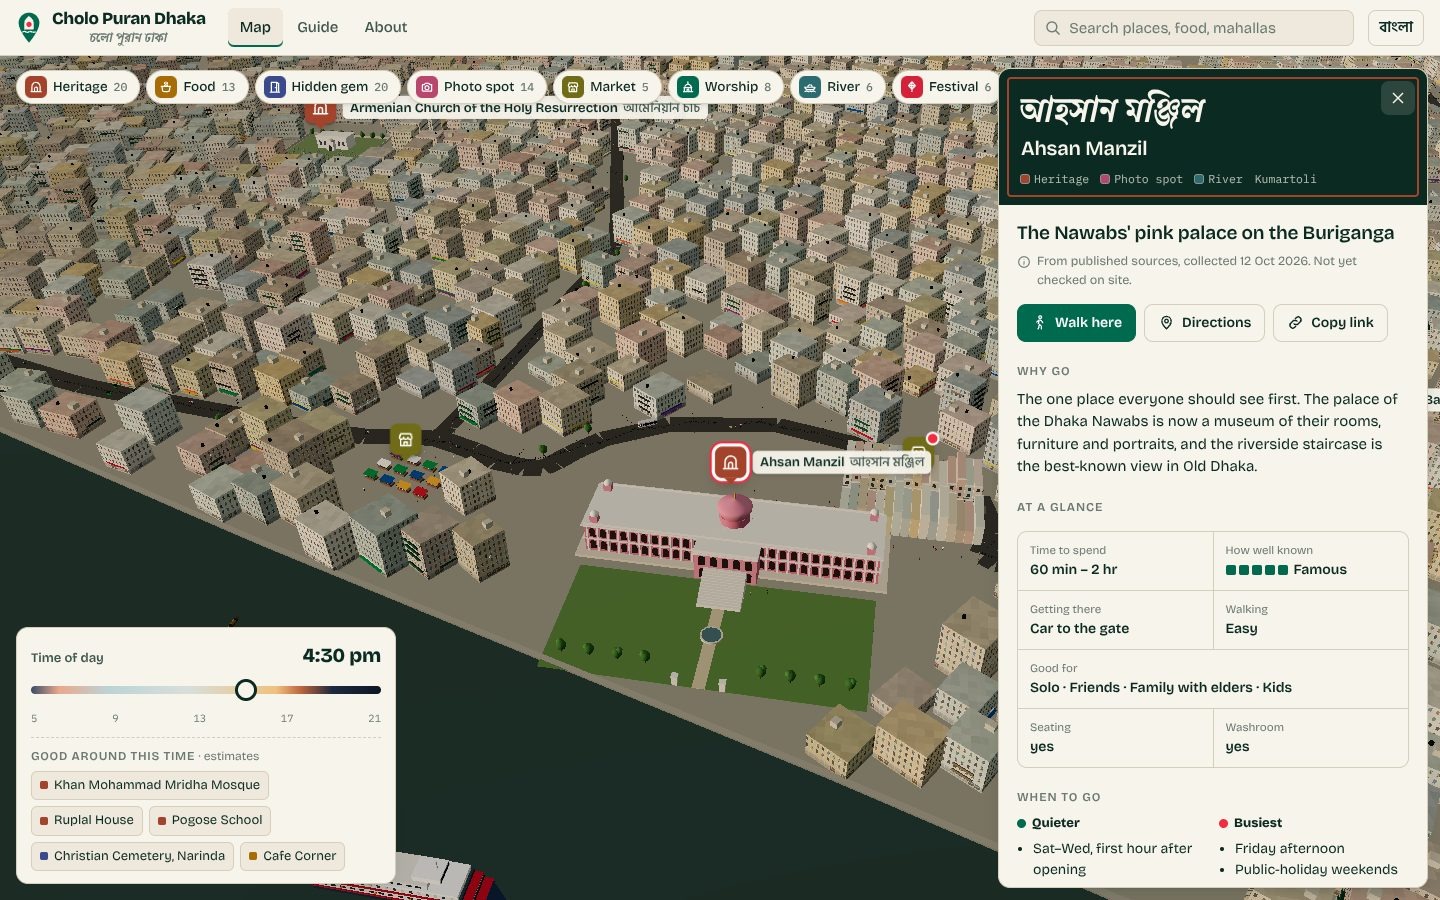
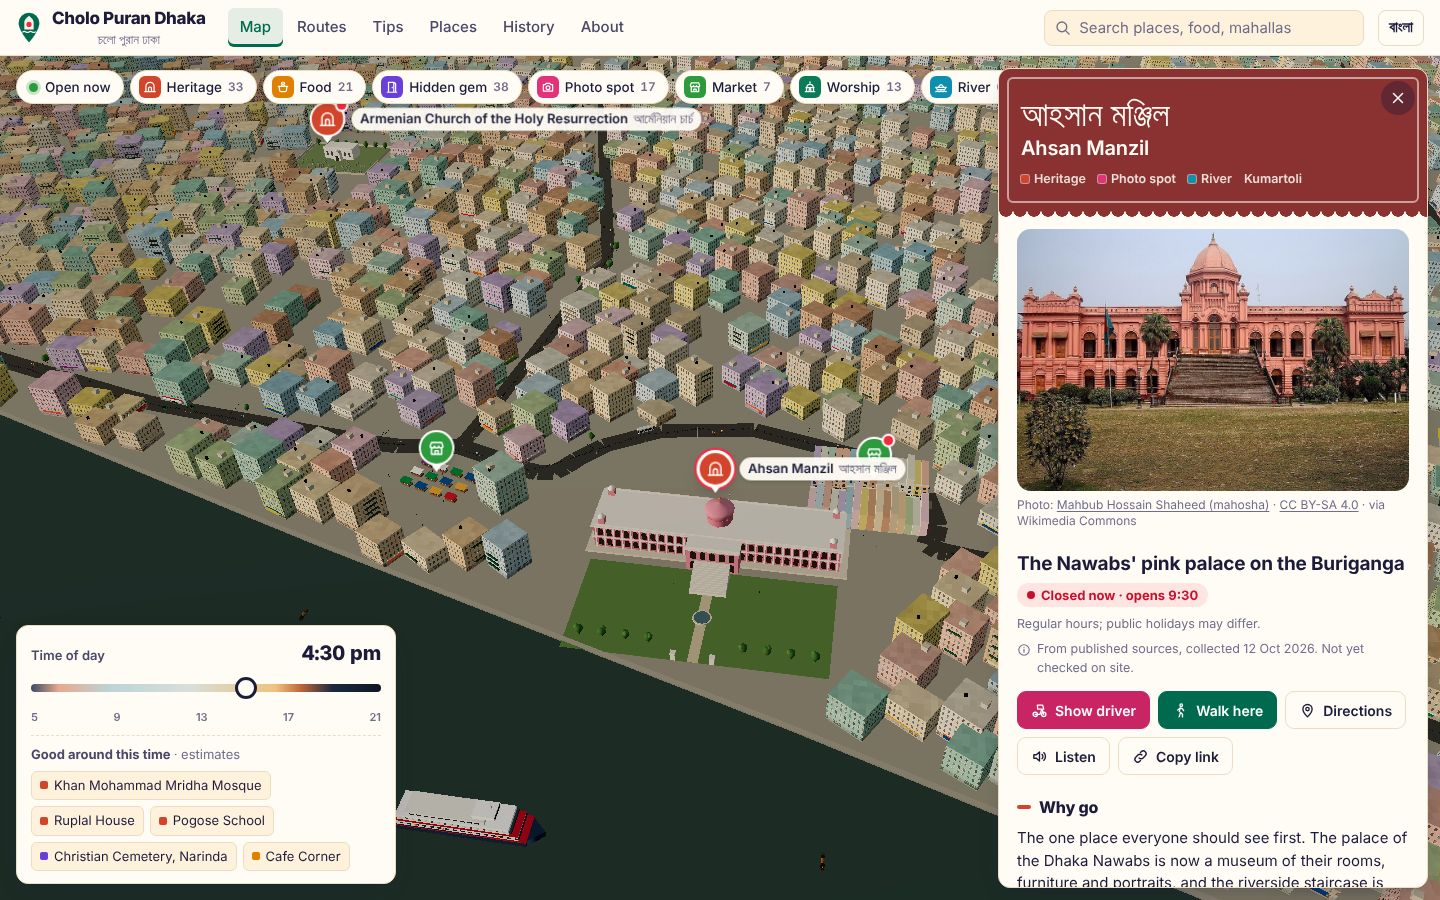
README: Plan my day, photos, new screenshots, fixed links

diff --git a/README.md b/README.md
@@ -4,7 +4,7 @@
 
 <h1 align="center">Cholo Puran Dhaka · চলো পুরান ঢাকা</h1>
 
-<p align="center">A walkable 3D guide to Old Dhaka for first-time visitors: 62 places (for now), ready-made walking routes,<br>what to order and whether it is open now, a card to show your rickshaw driver, festivals, crafts and local phrases,<br>a real street map that works offline, and practical tips, each with its source.</p>
+<p align="center">A walkable 3D guide to Old Dhaka for first-time visitors: 62 places (for now) with real photos, ready-made walking routes<br>and a planner that builds your day around opening hours, what to order and whether it is open now, a card to show your rickshaw driver,<br>a festival calendar, 400 years of history, a real street map that works offline, and practical tips, each with its source.</p>
 
 <p align="center"><b><a href="https://sifatswapnil2022.github.io/cholo-puran-DHAKA/">Open the live site →</a></b><br><sub>Works on desktop, Android and iPhone, and offline once opened. No sign-up, no install.</sub></p>
 
@@ -30,9 +30,7 @@ It is also an HCI question I care about: does a 3D street-level view help people
 ## What it does
 
 - **Walking routes.** Four ready-made days out: *Old Dhaka in one day*, a food crawl, a golden-hour river walk, and a morning of Old Dhaka's many faiths. The route is drawn on the 3D map with numbered stops, suggested times, walking minutes between stops (longer hops marked for a rickshaw), and the days each stop is closed. Every route has its own link, for example [`#route-one-day`](https://sifatswapnil2022.github.io/cholo-puran-DHAKA/#route-one-day).
-
 - **Plan my day.** Three questions (when, what you like, where you start) and the app builds a day that fits: only places that are open when you arrive, nothing on its closed day, mosques skipped during Friday prayers, breakfast, lunch and dinner at the right times, walks and rickshaw hops with fare estimates. Swap any stop, show the day on the map, add it to your calendar, or share it as a link. It runs on the phone, with no account and no server.
-
 - **Photos.** 38 places have a real photo from Wikimedia Commons, picked by hand to make sure it shows the right building, with the photographer and licence under it. Only free licences are used (no NC or ND), and the data check rejects anything else. Places without a free photo yet say so and link to a form to suggest one. `tools/commons.mjs` searches Commons and downloads the picks with their credits.
 - **Show the driver.** One tap shows the place name in large Bangla with its area and a well-known landmark nearby, plus "Please take me here" and "How much will the fare be?" in Bangla, each with an English line underneath. The screen stays on while it is open.
 - **Street map.** One tap switches from 3D to a real OpenStreetMap street map with every place pinned (clustered when zoomed out), routes drawn street by street, and your own position in Near me. Devices without 3D support open on the street map automatically.
@@ -43,7 +41,7 @@ It is also an HCI question I care about: does a 3D street-level view help people
 - **Crafts.** Rickshaw painting, conch-shell bangles, kites, bakarkhani and chinitikri mosaic: where to watch and what is worth buying.
 - **Say it in Dhakaiya.** A short phrasebook of Old Dhaka's own Bangla (Dhakaiya Kutti), in Bangla script, romanised and next to standard Bangla. Tap to hear it.
 - **Listen.** Any place card can be read aloud by the phone's own voice.
-- **A page for every place.** Each place has its own page (for example [`place/ahsan-manzil`]({S}place/ahsan-manzil/)) with a preview image, so links look good when shared on Facebook or WhatsApp and search engines can find them. There is also [a list of all places]({S}place/).
+- **A page for every place.** Each place has its own page (for example [`place/ahsan-manzil`](https://sifatswapnil2022.github.io/cholo-puran-DHAKA/place/ahsan-manzil/)) with a preview image, so links look good when shared on Facebook or WhatsApp and search engines can find them. There is also [a list of all places](https://sifatswapnil2022.github.io/cholo-puran-DHAKA/place/).
 - **Help keep it right.** Every card has *Report a mistake* and *I run this place*; the Places page has *Suggest a place*. They open short GitHub forms. Places that someone has checked in person get a green *Checked on site* badge.
 - **Before you go.** Getting there, getting around the lanes, what to wear, money, food and water, staying safe, when to go and dates to know, with a 999 emergency button (press 2 for English). Every section lists its sources.
 - **Open now.** Places with published hours show "Open now · until 16:30" or "Closed now · opens tomorrow 9:30", always in Dhaka time, with seasonal hours (Ahsan Manzil, Lalbagh Fort) and 24-hour places handled.
@@ -51,7 +49,7 @@ It is also an HCI question I care about: does a 3D street-level view help people
 - **What to order.** Food places list their dishes in English and Bangla, with prices where a source gives them and the year of that price.
 - **Fare estimates.** Rickshaw hops on the routes and in Near me show an estimate (৳15–20 per km, at least ৳20) and, for longer trips, the official CNG fare.
 - **Filters.** Open now, budget, good for families, lesser-known, and has a washroom, on the map and in the list. Search also finds dishes, so typing "nihari" finds the nihari shops.
-- **Start here.** First-time visitors get a short welcome with the four routes, the tips and an option to explore the map on their own.
+- **Start here.** First-time visitors get a short welcome with the four routes, Plan my day, the tips and an option to explore the map on their own.
 - **3D Old Dhaka.** Orbit, pan and zoom over the old city and the Buriganga. Tap a marker and the camera flies to the place.
 - **Walk mode.** Drop to street level in front of any place and walk with W A S D, the arrow keys or an on-screen pad. Walls and the river block you, and nearby places show distance and direction.
 - **Place cards.** Why go, history, entry fees, hours and closed days (with a warning if it is closed today), quieter and busiest times, photo tips, vehicle access, seating and washrooms, nearby places, and the sources for every fact.
@@ -95,6 +93,12 @@ The site is built to feel like an app on Android and iPhone:
   <img src="docs/screenshots/phone-walk.jpg" width="230" alt="Walk mode with the on-screen pad on a phone">
 </p>
 
+<p align="center">
+  <img src="docs/screenshots/phone-plan.jpg" width="230" alt="Plan my day: a Saturday timeline with times, photos and rickshaw hops">
+  <img src="docs/screenshots/phone-places.jpg" width="230" alt="Places list with photo thumbnails">
+  <img src="docs/screenshots/phone-festivals.jpg" width="230" alt="Festivals with countdowns and a month strip">
+</p>
+
 ## Browser support
 
 Tested on phone, tablet and desktop sizes from a 280 px folded Galaxy Fold to 1920 px desktops, in portrait and landscape, in English and Bangla.
@@ -130,6 +134,8 @@ Lesser-known places are marked with a red dot so visitors can go beyond the usua
 
 - **Landmarks** are modelled in code: Ahsan Manzil's arcades, staircase and lotus dome, Lalbagh Fort's walls, gate and Pari Bibi's tomb, Tara Masjid with a star-mosaic texture, shopfronts with Bangla signboards, and so on.
 - **The city around them is generated** for now: about 30,000 houses with painted shutters, iron grilles, balconies, signboards, rooftop water tanks and overhead wires, drawn with instancing and a custom GLSL facade shader. Rickshaws, CNGs, buses, pushcarts, motorbikes, people and boats move along the roads and the river.
+- **Plan my day** runs entirely in the browser: it scores each place by your interests, checks its opening hours, closed days, Friday prayer times and festival dates for the chosen day, puts meals at meal times, then builds the order by value per minute of walking and visiting.
+- **Flat layers.** The ground, river and roads are drawn first and in a fixed order, and the camera's near plane moves out as you zoom out, so distant surfaces don't flicker into each other.
 - **Performance.** Instanced meshes keep draw calls under about 100. The app uses lighter settings on low-power devices and steps down further if the frame rate drops.
 
 ## Run it locally
@@ -197,12 +203,17 @@ index.html            the whole app: UI, 3D scene, landmarks, walk mode
 places.json           the places, routes, tips and their sources
 sw.js                 service worker for offline use
 place/                generated page for every place, plus place/index.html (do not edit by hand)
+history/              generated plain page of the history timeline
+img/                  place photos from Wikimedia Commons (img/t/ holds thumbnails); credits are in places.json
 sitemap.xml           generated list of pages for search engines
 tools/validate.mjs    checks places.json; runs on every push (.github/workflows/check.yml)
 tools/build-pages.mjs writes place/ and sitemap.xml from places.json
+tools/commons.mjs     searches Wikimedia Commons and downloads picked photos with credits (run by .github/workflows/photos.yml)
+tools/photo-picks.json the Commons file chosen for each place
 tools/cards.py        draws link-preview images, social cards and shortcut icons
 tools/fonts/          fonts used by tools/cards.py (SIL Open Font License)
 vendor/leaflet/       Leaflet and Leaflet.markercluster for the street map
+vendor/es-module-shims.js  import-map support for iOS 15–16.3
 manifest.webmanifest  app name, colours, icons, shortcuts and screenshots
 icons/                home-screen, app and shortcut icons
 docs/                 logo, screenshots, preview images (og/), field-check and Android guides
